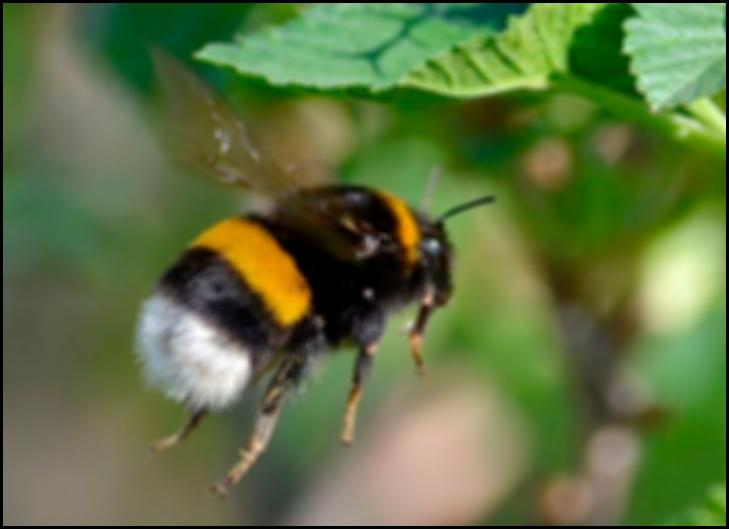
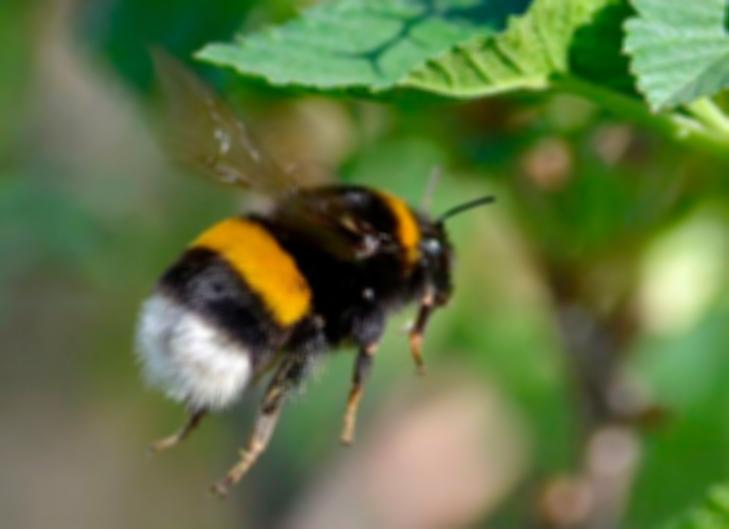
3

Changed region(s): [[0.0, 0.0, 1.0, 1.0]]

diff --git a/appLab3/src/main/kotlin/com/github/hummel/dsp/lab3/BlurMedian.kt b/appLab3/src/main/kotlin/com/github/hummel/dsp/lab3/BlurMedian.kt
@@ -6,10 +6,11 @@ fun applyMedianBlur(imageArray: Array<Array<IntArray>>, boxSize: Int): Array<Arr
 
 	val blurredImage = Array(height) { Array(width) { IntArray(channels) } }
 
-	for (y in padSize until height - padSize) {
-		for (x in padSize until width - padSize) {
+	for (y in 0 until height) {
+		for (x in 0 until width) {
 			for (c in 0 until channels) {
 				val pixelValues = mutableListOf<Int>()
+				var count = 0
 				for (dy in -padSize..padSize) {
 					for (dx in -padSize..padSize) {
 						val newY = y + dy
@@ -17,11 +18,12 @@ fun applyMedianBlur(imageArray: Array<Array<IntArray>>, boxSize: Int): Array<Arr
 
 						if (newY in 0 until height && newX in 0 until width) {
 							pixelValues.add(imageArray[newY][newX][c])
+							count++
 						}
 					}
 				}
 				pixelValues.sort()
-				blurredImage[y][x][c] = pixelValues[pixelValues.size / 2]
+				blurredImage[y][x][c] = if (count > 0) pixelValues[pixelValues.size / 2] else 0
 			}
 		}
 	}

diff --git a/appLab3/src/main/kotlin/com/github/hummel/dsp/lab3/BlurBox.kt b/appLab3/src/main/kotlin/com/github/hummel/dsp/lab3/BlurBox.kt
@@ -6,10 +6,12 @@ fun applyBoxBlur(imageArray: Array<Array<IntArray>>, boxSize: Int): Array<Array<
 
 	val blurredImage = Array(height) { Array(width) { IntArray(channels) } }
 
-	for (y in padSize until height - padSize) {
-		for (x in padSize until width - padSize) {
+	for (y in 0 until height) {
+		for (x in 0 until width) {
 			for (c in 0 until channels) {
 				var sum = 0.0f
+				var count = 0
+
 				for (dy in -padSize..padSize) {
 					for (dx in -padSize..padSize) {
 						val newY = y + dy
@@ -17,11 +19,12 @@ fun applyBoxBlur(imageArray: Array<Array<IntArray>>, boxSize: Int): Array<Array<
 
 						if (newY in 0 until height && newX in 0 until width) {
 							sum += imageArray[newY][newX][c]
+							count++
 						}
 					}
 				}
-				val area = boxSize * boxSize
-				blurredImage[y][x][c] = (sum / area).toInt()
+
+				blurredImage[y][x][c] = if (count > 0) (sum / count).toInt() else 0
 			}
 		}
 	}
